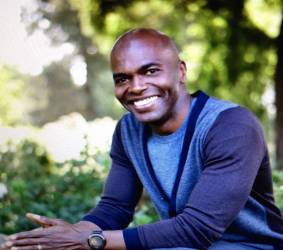
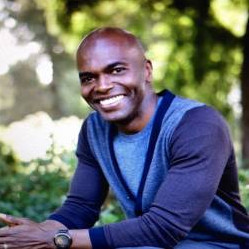
Add Leland, as he is confirmed.  Minor cropping of his picture to square it up.

diff --git a/_includes/mentor-card.html b/_includes/mentor-card.html
@@ -1,4 +1,4 @@
-<div class="col-sm-4 mentor">
+<div class="col-sm-3 mentor">
   <div class="thumbnail vcard">
     <img class="img-thumbnail photo" src="/img/mentors/{{ mentor.photo }}" alt="photo of {{ mentor.name }}">
     <div class="caption">
